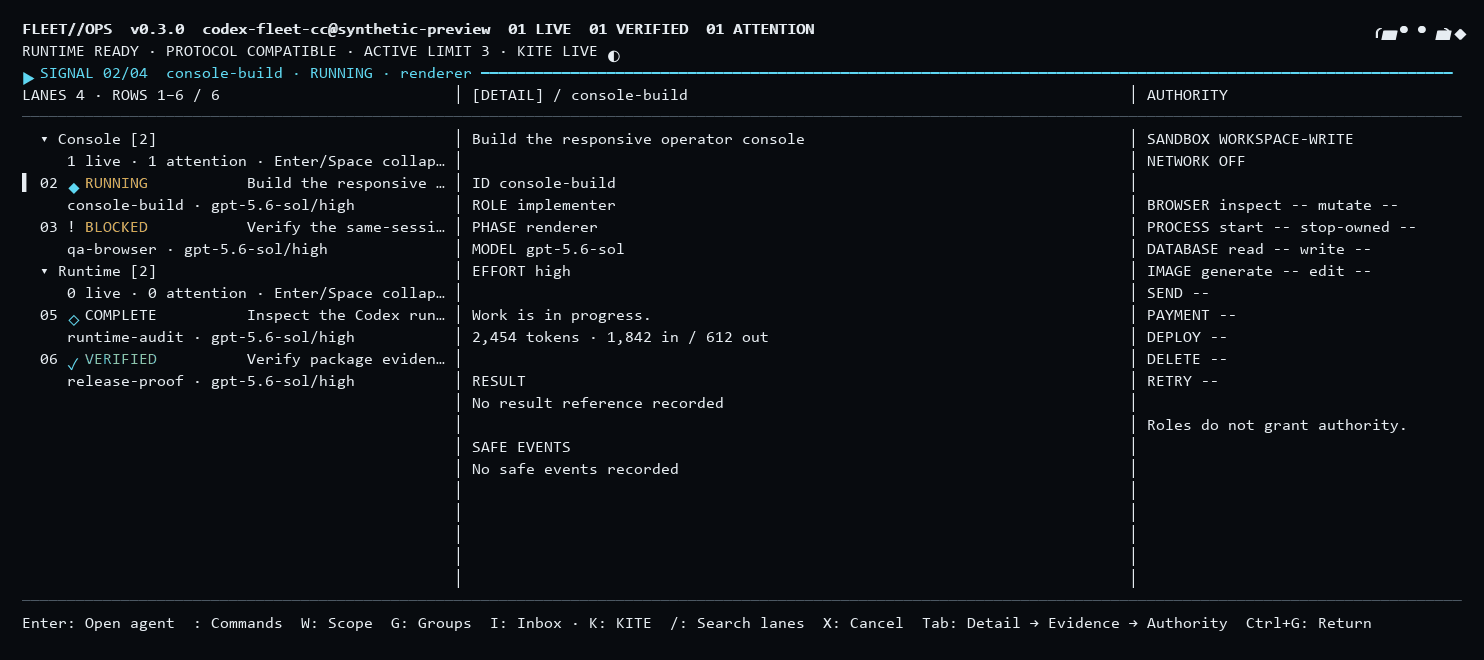
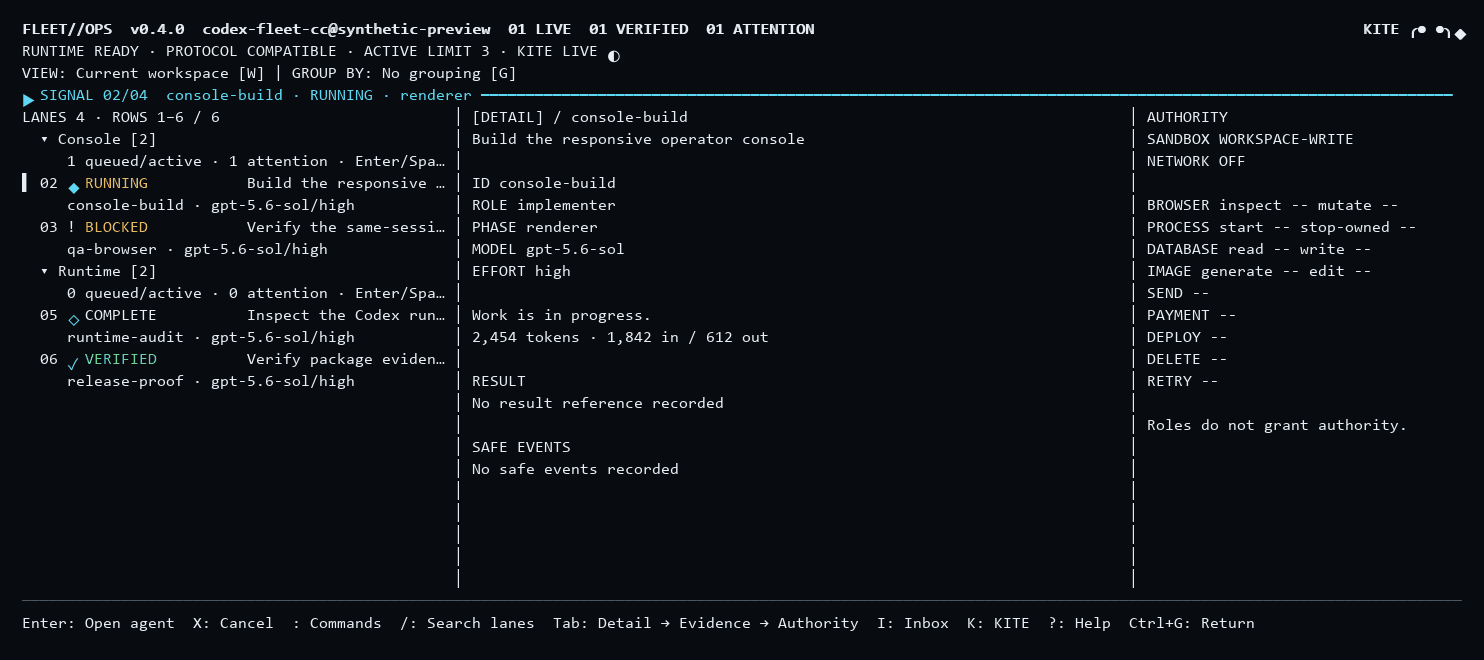
chore: release Fleet 0.4.0

diff --git a/README.md b/README.md
@@ -24,14 +24,16 @@ does not show Fleet lanes, and Fleet status does not create or control Claude ba
 > live-account canary are separate gates. The GitHub personal marketplace is available; the project
 > is not yet published to a central marketplace catalog.
 
-## Machine-control integration (review source)
+## Machine-control integration
 
 Claude Code, Codex and other trusted local controllers can use the versioned JSON
 control plane and dependency-free Node client: lazy operation schemas, delta
 observations, bounded result sections, source-bound reported verification and
 replay-safe prepared waves. See [Machine control](docs/MACHINE_CONTROL.md) and the
 [research and acceptance review](docs/reviews/2026-09-15-evidence-control-plane.md).
-This does not upgrade an installed runtime or claim a global quality ranking.
+The 0.4.0 release includes this control plane. Update both the installed plugin and the owned
+runtime to use it; see the [September integration review](docs/reviews/2026-09-27-pr-integration-review.md)
+for verification evidence and remaining live-workload boundaries.
 
 ## See the fleet without leaving Claude Code
 
@@ -43,9 +45,10 @@ session to the dashboard; `q` or `Esc` returns to Claude Code.
 
 This recording is generated from the current production terminal renderer with deterministic synthetic
 lanes. It shows the actual source UI, not a live account or workload. The version is read from package
-metadata when regenerating the assets. The current Fleet source release is v0.3.0. Installation
-requires the matching owned-runtime upgrade; retaining v0.2.1 would leave the old terminal runtime
-classified as current. The new shared inbox still needs an installed live-account canary. A [static dashboard image](docs/assets/fleet-console-dashboard.png)
+metadata when regenerating the assets. The current Fleet source release is v0.4.0. Installation
+requires the matching owned-runtime upgrade; confirm v0.4.0 in the Fleet masthead after updating.
+The shared inbox still needs an installed live-account canary. A
+[static dashboard image](docs/assets/fleet-console-dashboard.png)
 is also available.
 
 ## What the console includes

diff --git a/CHANGELOG.md b/CHANGELOG.md
@@ -1,5 +1,25 @@
 # Changelog
 
+## 0.4.0 — 2026-09-27
+
+- Add a versioned machine-control plane, lazy operation schemas, bounded result sections,
+  delta observations, source-bound reported verification and replay-safe prepared waves.
+- Add environment preflight, runtime recovery commands, bounded wait/watch, model catalog refresh,
+  runtime-aware entrypoint routing and clearer controller outcomes.
+- Improve console navigation, KITE status presentation and native read-only session handling.
+- Preserve the writer reservation while a continuation is still starting and reject stale
+  reconciliation results that could release a newer reservation.
+- Stop a report-only repair from admitting an additional writable continuation.
+- Clip console status by terminal display width so wide Unicode cannot overflow the footer.
+- Align both CodeQL actions on the same verified release and refresh source-rendered README visuals.
+- Advance package, plugin, broker and owned-runtime upgrade surfaces together to 0.4.0.
+
+Migration: update the marketplace and installed plugin, accept its versioned owned-runtime upgrade,
+then restart Claude Code and confirm `v0.4.0` in the Fleet masthead. Existing lane authority and state
+are preserved. Source tests and platform CI do not replace an authenticated live-workload canary;
+web, browser and image capabilities still require their lane-local smoke. The optional control
+result `events` section is currently empty because the scheduler does not retain an event log.
+
 ## 0.3.0 — 2026-09-07
 
 - Add logical task folders, literal field filters, large-fleet navigation, connected-runtime model
